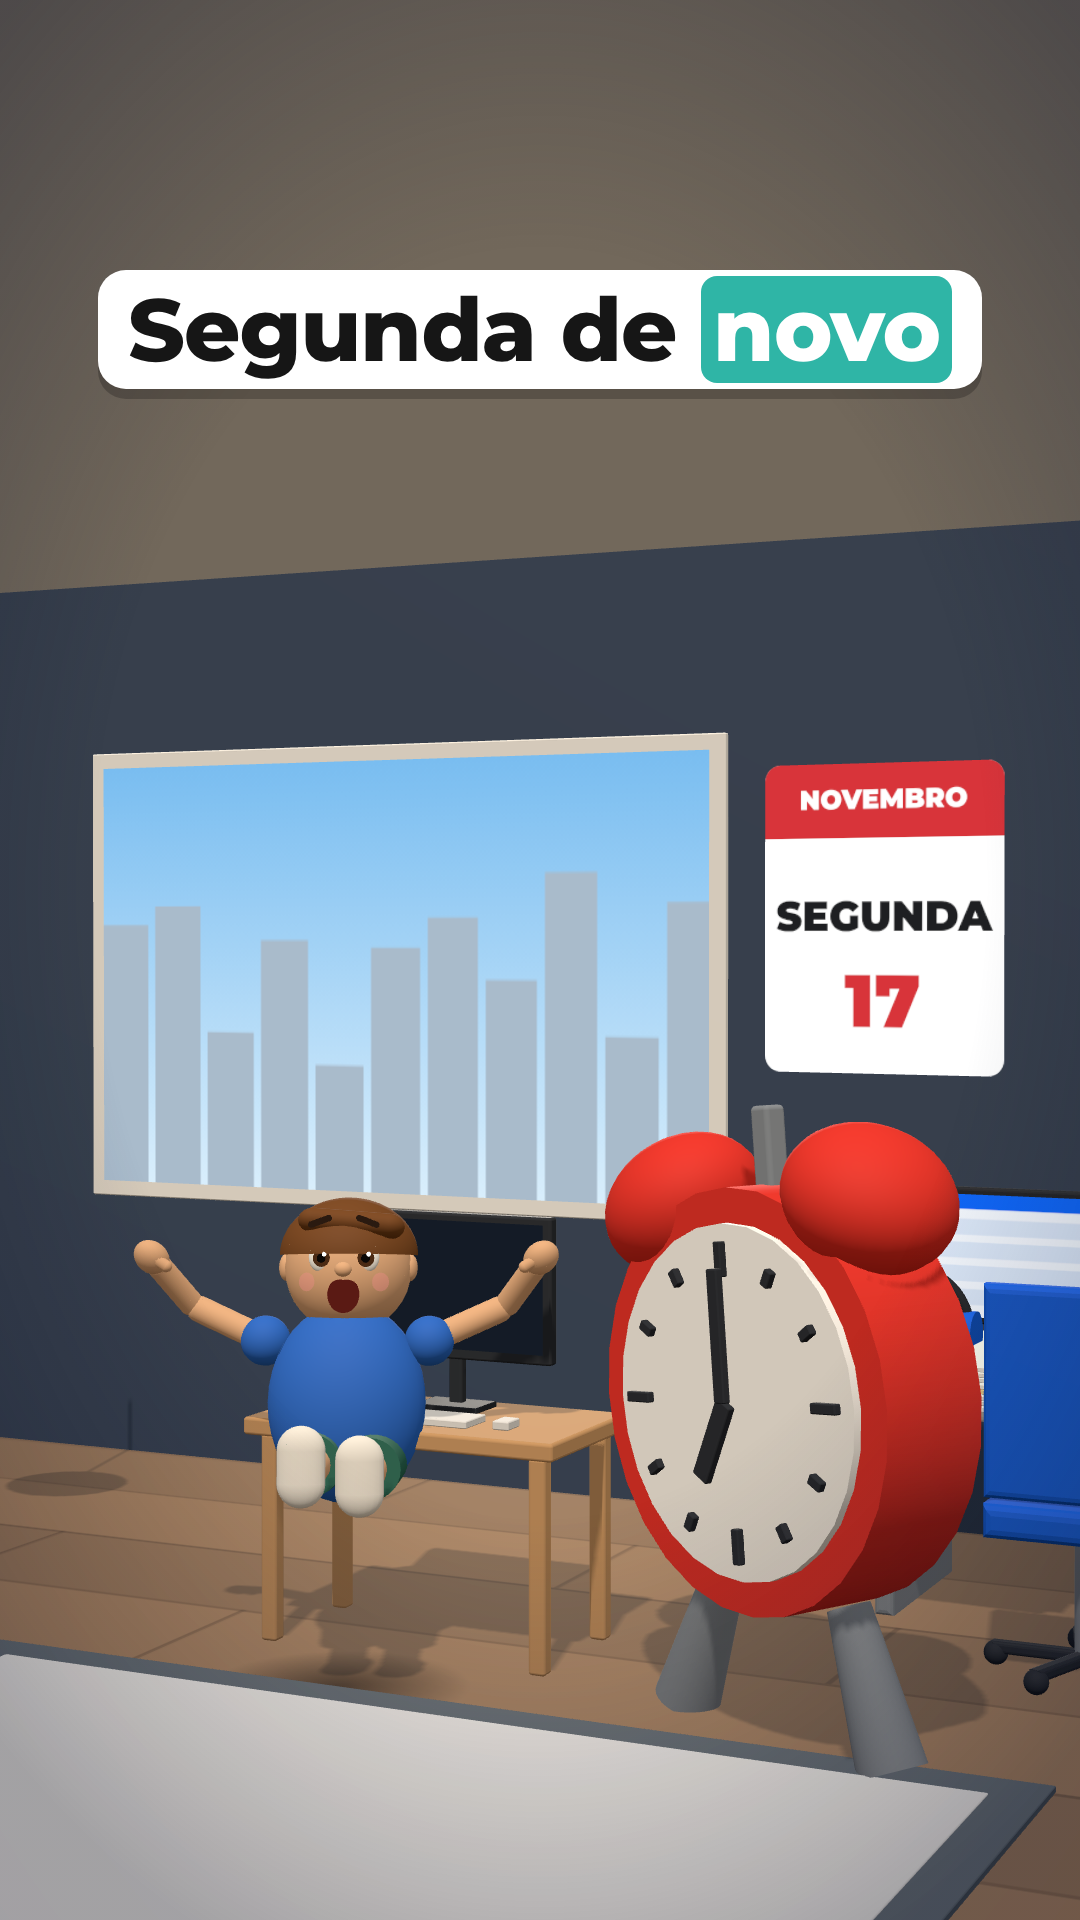
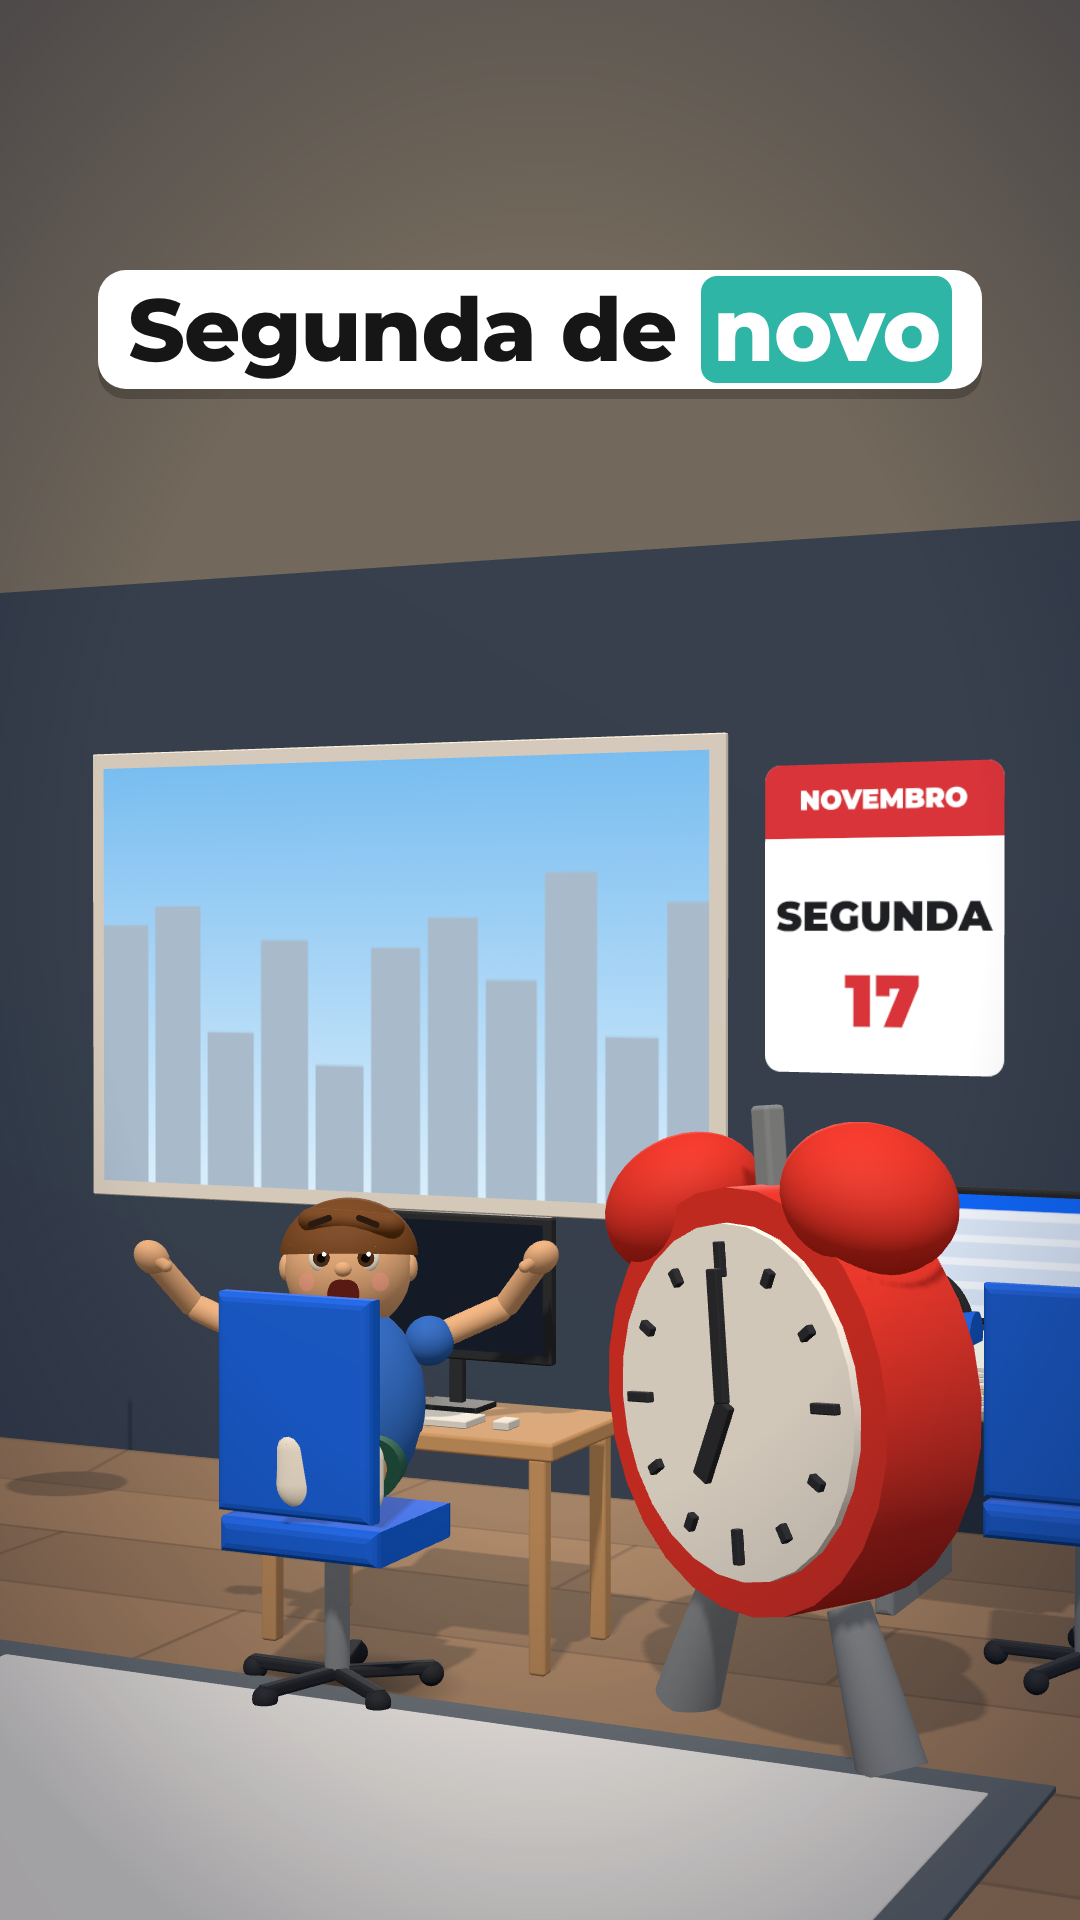
Vídeo pronto: nuvem-mesma-segunda (capa e gasto)
Claude-Session: https://claude.ai/code/session_01HHKsZb8Mpny45AaTTzQMfA

Changed region(s): [[0.1833, 0.6562, 0.4278, 0.9062]]

diff --git a/canal/historico.md b/canal/historico.md
@@ -303,3 +303,4 @@
 - 18/11/2026 · canal · pediu pra eu deixar os 3 quase prontos: ele grava só a narração no computador e sobe pro GitHub, e eu faço as cenas e o render aqui na nuvem → roteiro.json dos 3 prontos (nuvem-mesma-segunda, nuvem-pizzaria-falando, nuvem-corrida-do-cliente)
 - 18/11/2026 · canal · 'aproveita e completa 10 vídeos' → mais 7 roteiros, cada um num formato: documentário de bicho, receita ao contrário, plantão de telejornal, conto de fadas, contagem regressiva do aluguel, ele do futuro e fase de videogame (os 10 somam uns 8.200 caracteres da ElevenLabs)
 - 18/11/2026 · canal · trocou a chave da ElevenLabs por outra conta → a voz funcionou aqui na nuvem; narração gravada aqui mesmo (nuvem-mesma-segunda 788 e nuvem-pizzaria-falando ~870 caracteres)
+- 18/11/2026 · nuvem-mesma-segunda · vídeo pronto na nuvem (48 s, voz Liam, 788 créditos), capa ('Segunda de novo') e publicacao.md; mandado na conversa
